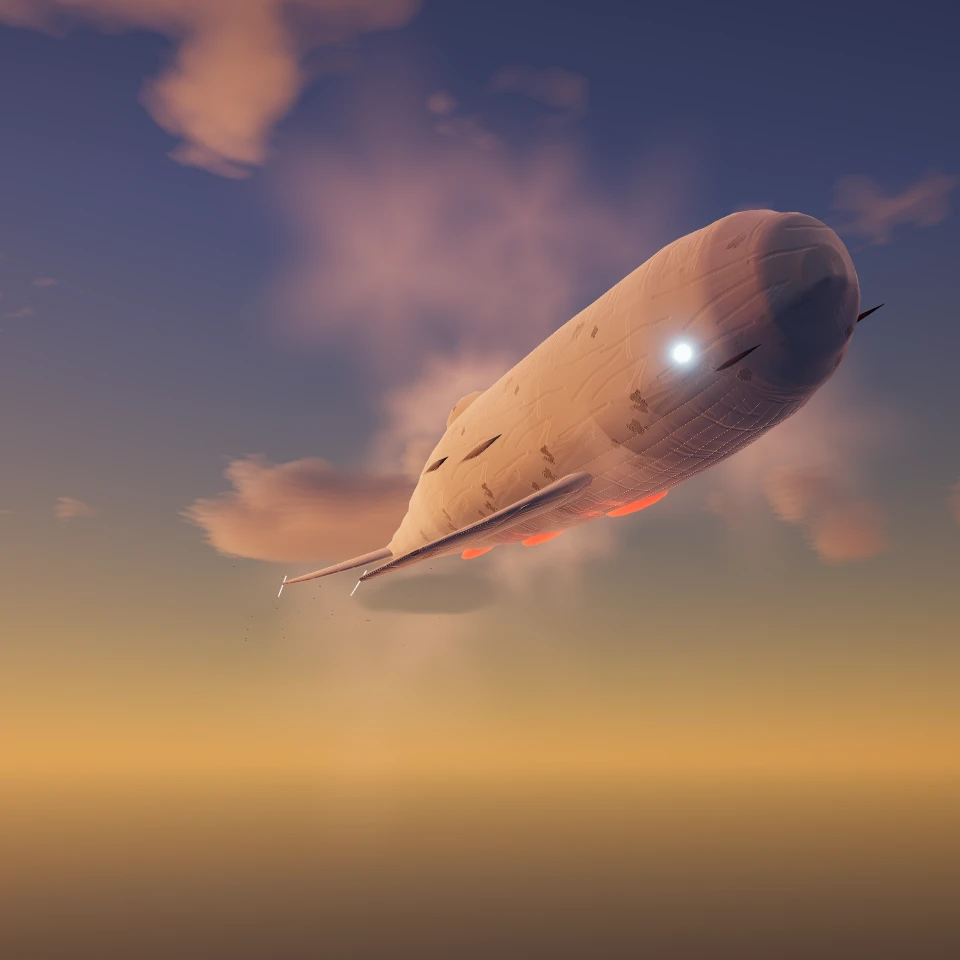
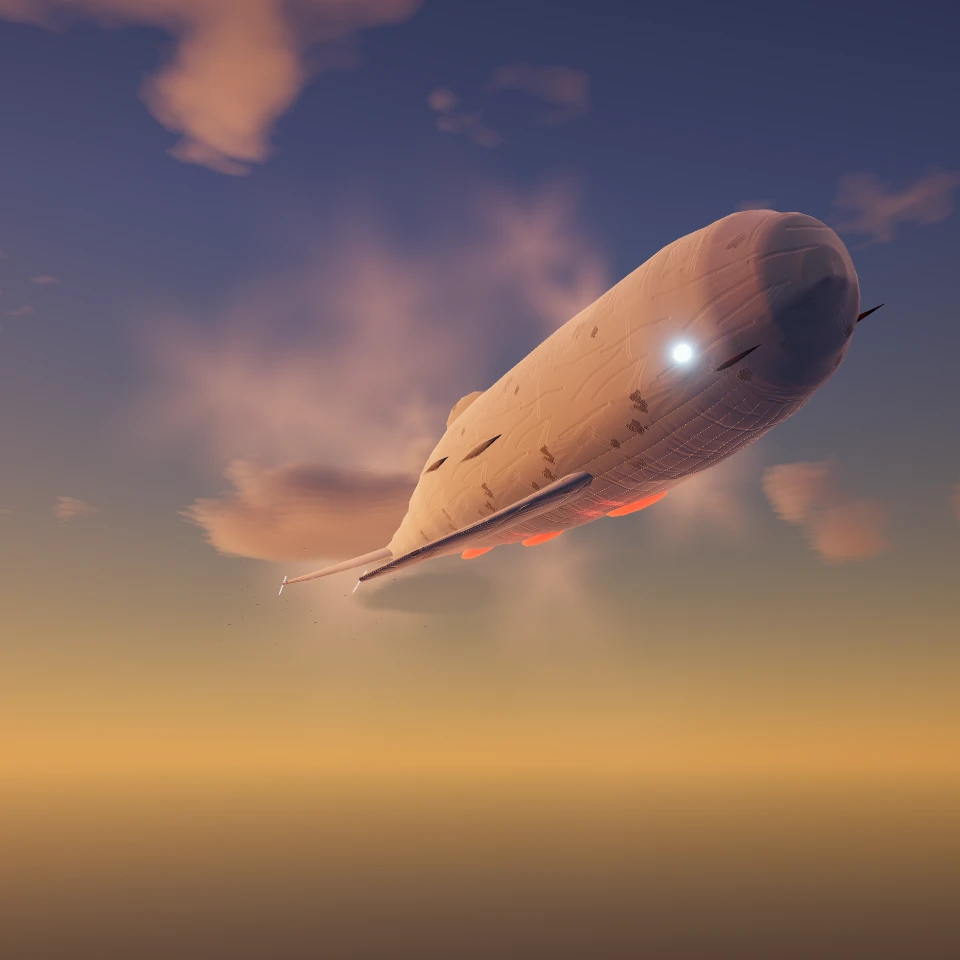
chore: 10-7f の仕上げ（focus・切り取りの確認・版のテスト）
Claude-Session: https://claude.ai/code/session_01HbSCNrcr6qRJUCNo6vaYt7

diff --git a/tests/release-check.test.ts b/tests/release-check.test.ts
@@ -6,14 +6,15 @@ import { parseChangelog } from '../src/core/changelog';
 import { DATA_POLICY } from '../src/data/data-policy';
 
 describe('版と更新履歴', () => {
-  it('版は 1.1.15（10-7e: 怪獣の見た目：ヴォルガス）', () => {
-    expect(APP_VERSION).toBe('1.1.15');
+  it('版は 1.1.16（10-7f: 怪獣選びの画像の描き直し）', () => {
+    expect(APP_VERSION).toBe('1.1.16');
   });
 
-  it('更新履歴は新しい順に 1.1.15・1.1.14・1.1.13・1.1.12・1.1.11・1.1.10・1.1.9・1.1.8・1.1.7・1.1.6・1.1.5・1.1.4・1.1.3・1.1.2・1.1.1・1.1.0・1.0.20・1.0.19・1.0.18・1.0.17・1.0.16・1.0.15・1.0.14・1.0.13・1.0.12・1.0.11・1.0.10・1.0.9・1.0.8・1.0.7・1.0.6・1.0.5・1.0.4・1.0.3・1.0.2・1.0.1・1.0.0・0.9.0〜0.1.0、各版 3〜5 行（1.1.0 はフェーズ 9 のまとめで 5〜8 行）', () => {
+  it('更新履歴は新しい順に 1.1.16・1.1.15・1.1.14・1.1.13・1.1.12・1.1.11・1.1.10・1.1.9・1.1.8・1.1.7・1.1.6・1.1.5・1.1.4・1.1.3・1.1.2・1.1.1・1.1.0・1.0.20・1.0.19・1.0.18・1.0.17・1.0.16・1.0.15・1.0.14・1.0.13・1.0.12・1.0.11・1.0.10・1.0.9・1.0.8・1.0.7・1.0.6・1.0.5・1.0.4・1.0.3・1.0.2・1.0.1・1.0.0・0.9.0〜0.1.0、各版 3〜5 行（1.1.0 はフェーズ 9 のまとめで 5〜8 行。1.1.16 は画像だけの描き直しで 1 行）', () => {
     const entries = parseChangelog(changelogText);
     const versions = entries.map((e) => /^(\d+\.\d+\.\d+)/.exec(e.title)?.[1]);
     expect(versions).toEqual([
+      '1.1.16',
       '1.1.15',
       '1.1.14',
       '1.1.13',
@@ -63,7 +64,9 @@ describe('版と更新履歴', () => {
     ]);
     for (const e of entries) {
       const phase = e.title.startsWith('1.1.0');
-      expect(e.items.length, e.title).toBeGreaterThanOrEqual(phase ? 5 : 3);
+      // 10-7f: 画像だけの描き直しは 1 行（タスクの指示）
+      const single = e.title.startsWith('1.1.16');
+      expect(e.items.length, e.title).toBeGreaterThanOrEqual(phase ? 5 : single ? 1 : 3);
       expect(e.items.length, e.title).toBeLessThanOrEqual(phase ? 8 : 5);
     }
   });

diff --git a/src/data/raid-kaiju.ts b/src/data/raid-kaiju.ts
@@ -97,7 +97,7 @@ const DEFS = [
     art: 'kaiju-art/vorgas.webp',
     latinName: 'VORGAS',
     attacks: ['sweep', 'roar', 'beam', 'throw'],
-    focus: '50% 45%',
+    focus: '56% 45%',
     // 10-7f: 熱線の溜め（夕方の港）: 亀裂が尾から頭へ白熱し、光の粒を口へ吸い込む姿を斜め前の下から見上げる
     scene: {
       shot: 'charge',
@@ -122,7 +122,7 @@ const DEFS = [
     art: 'kaiju-art/nephirga.webp',
     latinName: 'NEPHIRGA',
     attacks: ['orb', 'gust', 'dive', 'tail'],
-    focus: '50% 50%',
+    focus: '56% 50%',
     // 10-7f: 嵐の空: 雷球の予兆で喉と膜の筋が光る姿を斜め前から
     scene: {
       shot: 'orbs',
@@ -147,7 +147,7 @@ const DEFS = [
     art: 'kaiju-art/albion.webp',
     latinName: 'ALBION',
     attacks: ['minion', 'geyser', 'sonar', 'roll', 'spout', 'cloud'],
-    focus: '50% 50%',
+    focus: '64% 50%',
     // 10-7f: 雲を伴う巨体と鳥の群れ: 半円で傾いて曲がる姿を斜め下から見上げる
     scene: {
       shot: 'turn',
@@ -210,7 +210,7 @@ const DEFS = [
     art: 'kaiju-art/xenolith.webp',
     latinName: 'XENOLITH',
     attacks: ['warp', 'barrier', 'sweep', 'charged', 'orbs'],
-    focus: '50% 50%',
+    focus: '50% 38%',
     // 10-7f: 鏡の金属と光の輪: 夕方の空に浮かぶ円盤を斜め下から見上げる（下の光の輪・回る光の模様）
     scene: {
       shot: 'under',

diff --git a/docs/visual-pilot/README.md b/docs/visual-pilot/README.md
@@ -25,8 +25,10 @@
 | ゴウライ | ![変更前](kaiju-art/before/gourai.webp) | ![変更後](kaiju-art/after/gourai.webp) | 夕方の湾。正面（場面 `front`）: 光る目・熾火の口・牙の顔と海面の照り返し。水面の近くから少し見上げる（10-7c の正面の構図） |
 | ゼノリス | ![変更前](kaiju-art/before/xenolith.webp) | ![変更後](kaiju-art/after/xenolith.webp) | 夕方の空。下から（場面 `under`）: 空と日が映る鏡の金属・光の輪・六角のバリア・下の面の回る光の模様。斜め下から見上げる |
 
-- 明るさ（画素の明るさの平均。0〜255）: 変更前 ヴォルガス 91・ネフィルガ 161・アルビオン 139・ゴウライ 117・ゼノリス 112（幅 70）を、変更後は ヴォルガス 107・ネフィルガ 140・アルビオン 113・ゴウライ 149・ゼノリス 152（幅 45）に寄せた（4 体は夕方の空でそろえ、ネフィルガだけ指定の嵐の空で灰色）
-- 怪獣選びの画面での切り取られ方は `node scripts/ui-audit-layout.js <出力先> 'http://localhost:5173/?dev=kaiju-art'`（`ONLY=raid`）の 844×390・568×320 の PNG で確かめた（顔・見せ場は帯と「‹ 戻る」の外）
+- 明るさ（画素の明るさの平均。0〜255）: 変更前 ヴォルガス 91・ネフィルガ 161・アルビオン 139・ゴウライ 117・ゼノリス 112（幅 70）を、変更後は ヴォルガス 102・ネフィルガ 143・アルビオン 112・ゴウライ 148・ゼノリス 152（幅 50）に寄せた（4 体は夕方の空でそろえ、ネフィルガだけ指定の嵐の空で灰色）
+- 怪獣選びの画面での切り取られ方は `node scripts/ui-audit-layout.js <出力先> 'http://localhost:5173/?dev=kaiju-art'`（`ONLY=raid`）の 844×390（上の段）・568×320（下の段）で確かめた（顔・見せ場は名前の帯と「‹ 戻る」・切り替えの外）。568×320 で頭が端に寄るヴォルガス・ネフィルガ・アルビオンは focus を右へ（56% / 56% / 64%）、844×390 でドームが切り替えに重なるゼノリスは上へ（38%）
+
+![怪獣選びの枠での切り取られ方](kaiju-art/crops.webp)
 
 ## ヴォルガス（10-7e）
 
